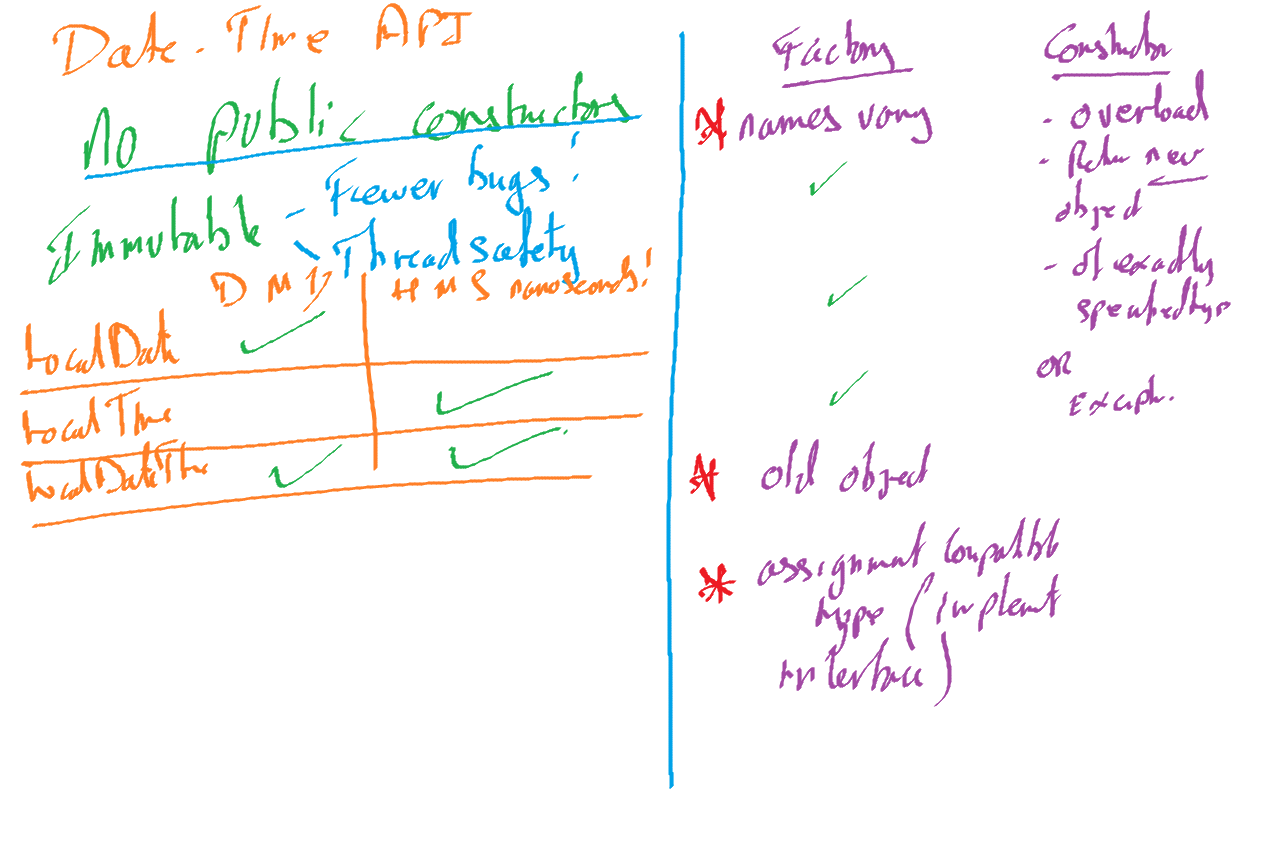
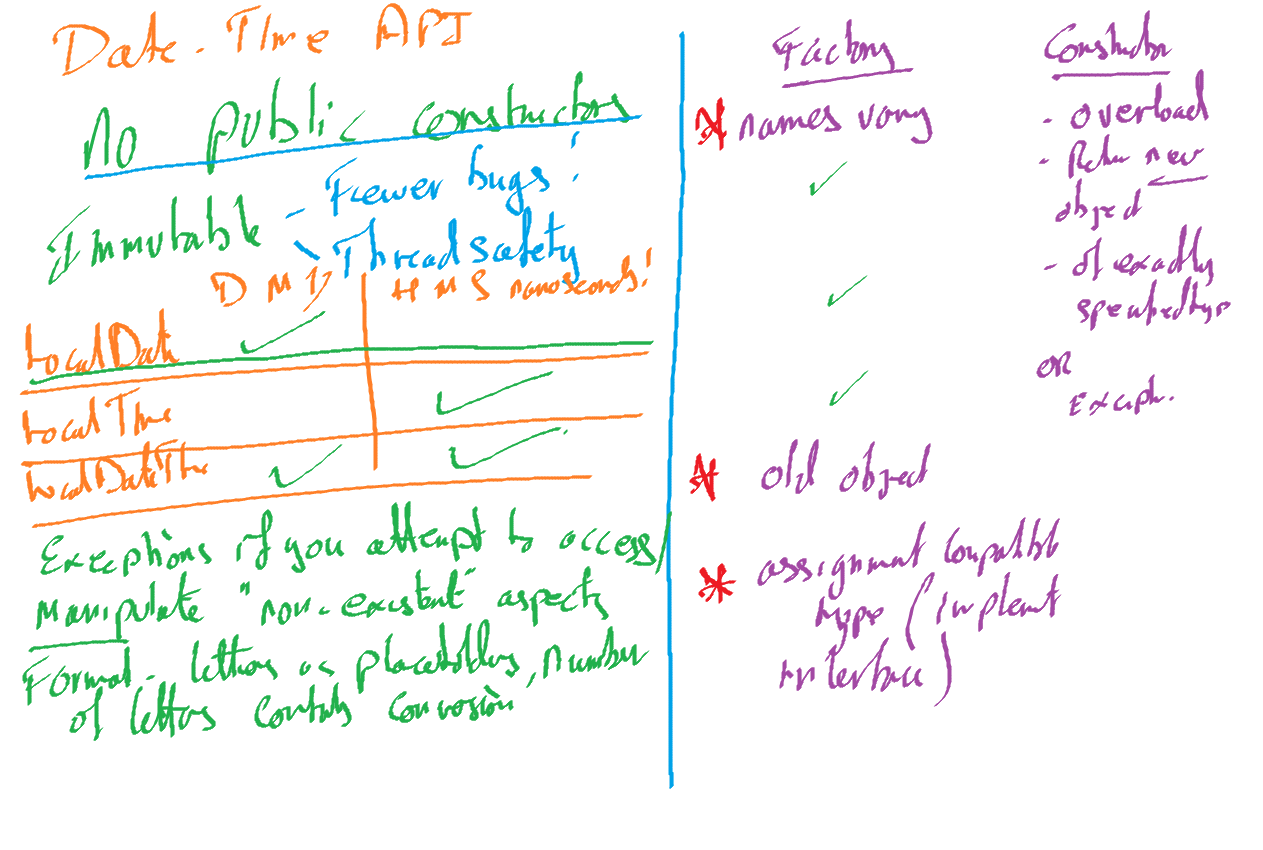
Day one mid-break

Changed region(s): [[0.0, 0.5812, 0.5558, 0.8565], [0.1544, 0.3976, 0.5249, 0.4282], [0.0309, 0.4282, 0.1235, 0.4588]]

diff --git a/src/main/java/datetime/DateExamples.java b/src/main/java/datetime/DateExamples.java
@@ -1,6 +1,8 @@
 package datetime;
 
 import java.time.LocalDate;
+import java.time.Period;
+import java.time.format.DateTimeFormatter;
 import java.time.temporal.ChronoUnit;
 
 public class DateExamples {
@@ -13,5 +15,28 @@ public class DateExamples {
     System.out.println("3 days from now is " + threeDaysFromNow);
     System.out.println("3 days ago was " + today.minus(3, ChronoUnit.DAYS));
     System.out.println("today is still " + today);
+
+    DateTimeFormatter fmt = DateTimeFormatter.ofPattern("dd MMMMM yyyyy");
+    System.out.println("today, English, is " + fmt.format(today));
+
+    Period oneMonth = Period.of(0, 1, 0);
+    LocalDate nextMonth = today.plus(oneMonth);
+    System.out.println("Next month is " + nextMonth);
+    LocalDate feb8 = LocalDate.of(2018, 2, 8);
+    LocalDate feb8PlusOneMonth = feb8.plus(oneMonth);
+    System.out.println("feb 8 is " + feb8);
+    System.out.println("feb 8 plus one month is " + feb8PlusOneMonth);
+
+    Period longish = Period.of(1, 18, 379);
+    Period tidy = longish.normalized();
+    System.out.println("longish " + longish);
+    System.out.println("tidy " + tidy);
+/*
+/*
+  A) P1Y18M379D
+  B) P2Y6M379D
+  C) P3Y6M14D
+  D) Crash!
+ */
   }
 }

diff --git a/src/main/java/staticstuff/Q2.java b/src/main/java/staticstuff/Q2.java
@@ -1,0 +1,29 @@
+package staticstuff;
+
+class Y {
+  static String sayHi() {
+    return "Y-Hello";
+  }
+
+  String sayHi2() {
+    return "Y-Hello2";
+  }
+}
+
+class Z extends Y {
+  static String sayHi() {
+    return "Z-Hello";
+  }
+
+  String sayHi2() {
+    return "Z-Hello2";
+  }
+  public static void main(String[] args) {
+    Y y = new Z();
+    System.out.println(y.sayHi() + ", " + y.sayHi2());
+  }
+}
+
+public class Q2 {
+
+}

diff --git a/src/main/java/staticstuff/Q1.java b/src/main/java/staticstuff/Q1.java
@@ -1,0 +1,22 @@
+package staticstuff;
+
+class X {
+  static int MAX_VAL = 100;
+  int value = 99;
+
+  public void setVal(int x) {
+    if (x <= MAX_VAL) value = x;
+  }
+}
+
+public class Q1 {
+  public static void main(String[] args) {
+    X a = new X();
+    X b = new X();
+    a.setVal(120);
+    System.out.print(a.value + ", ");
+    b.MAX_VAL = 150;
+    a.setVal(140);
+    System.out.println(a.value);
+  }
+}
